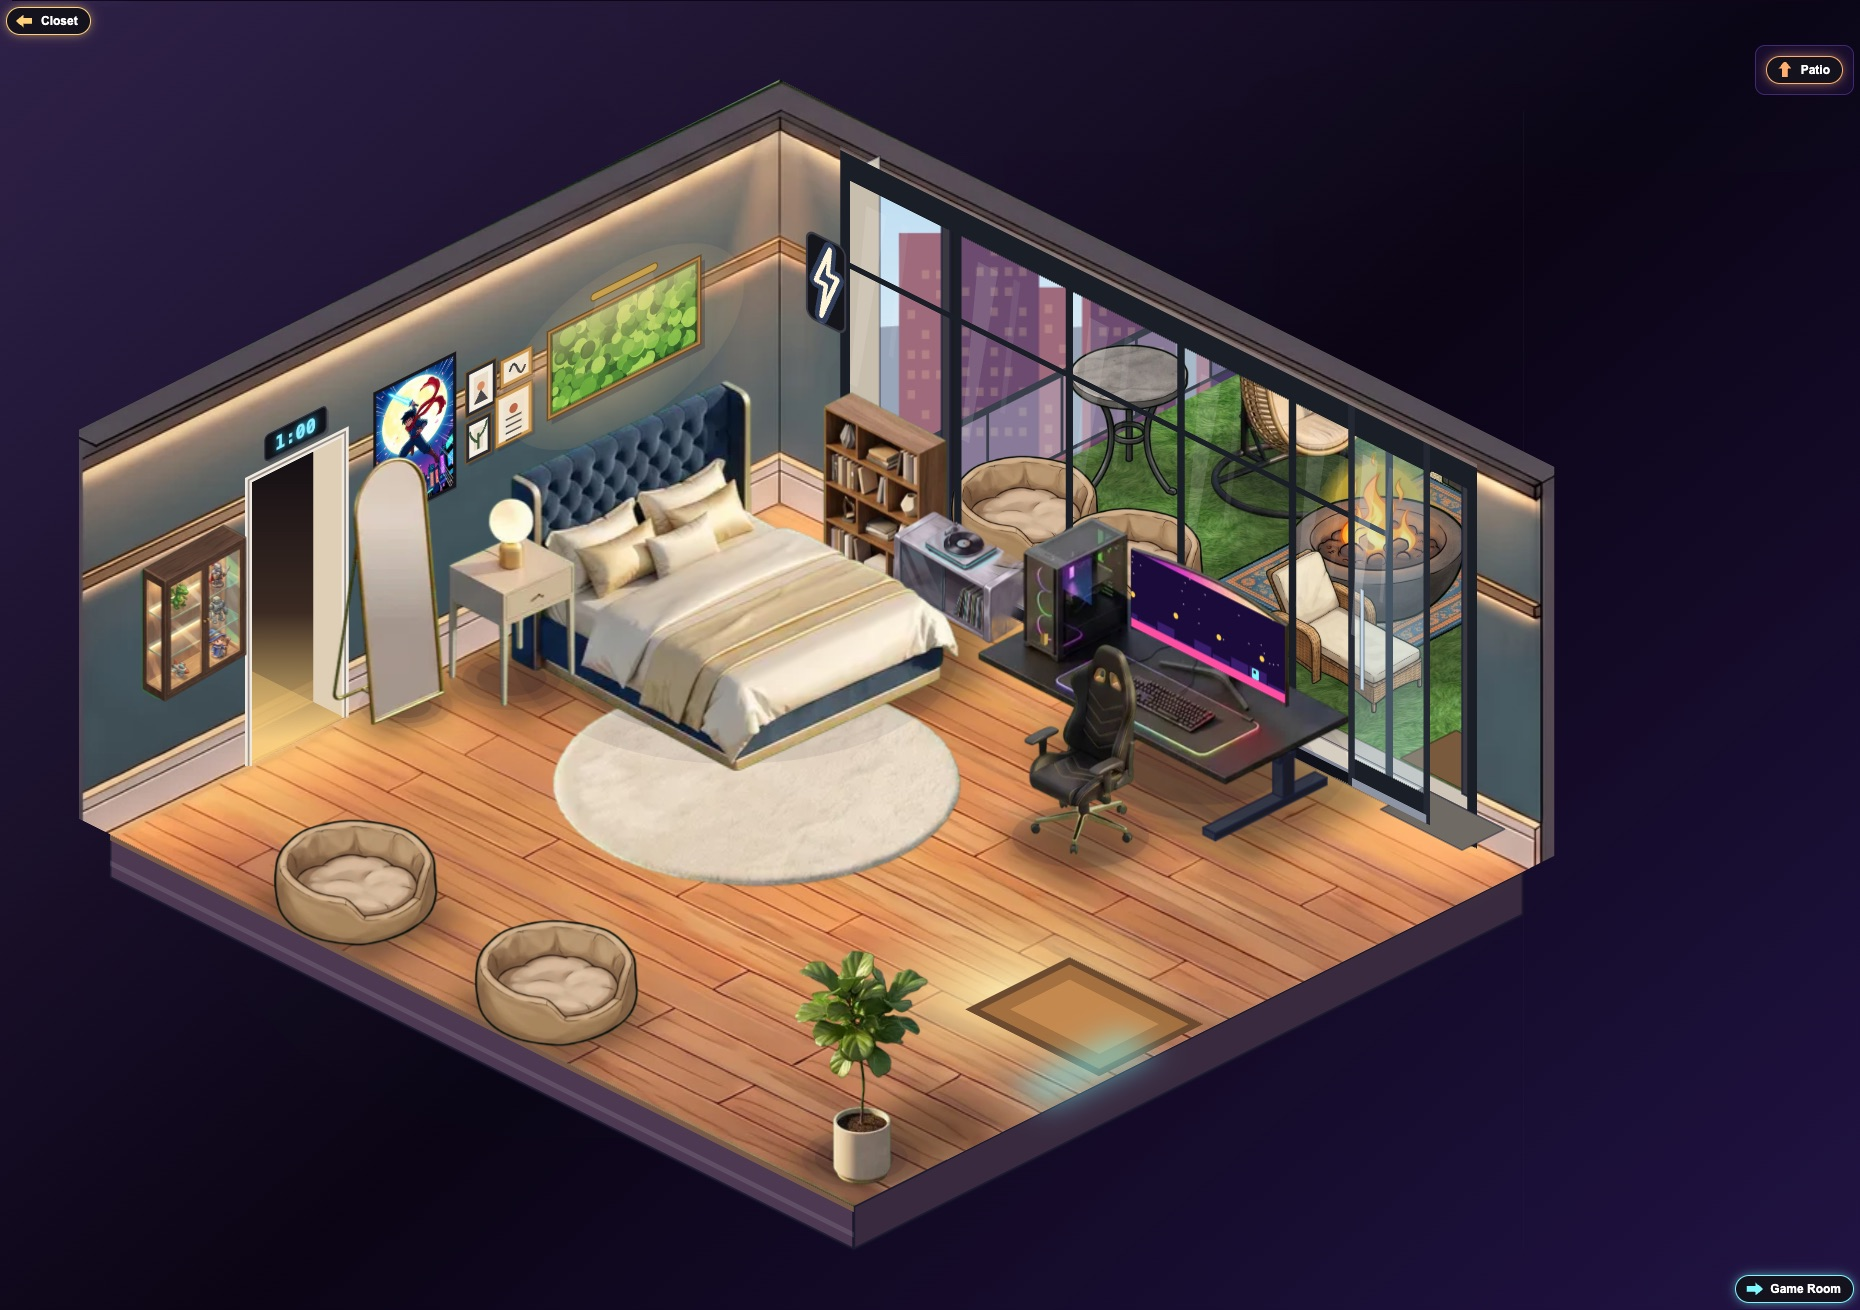
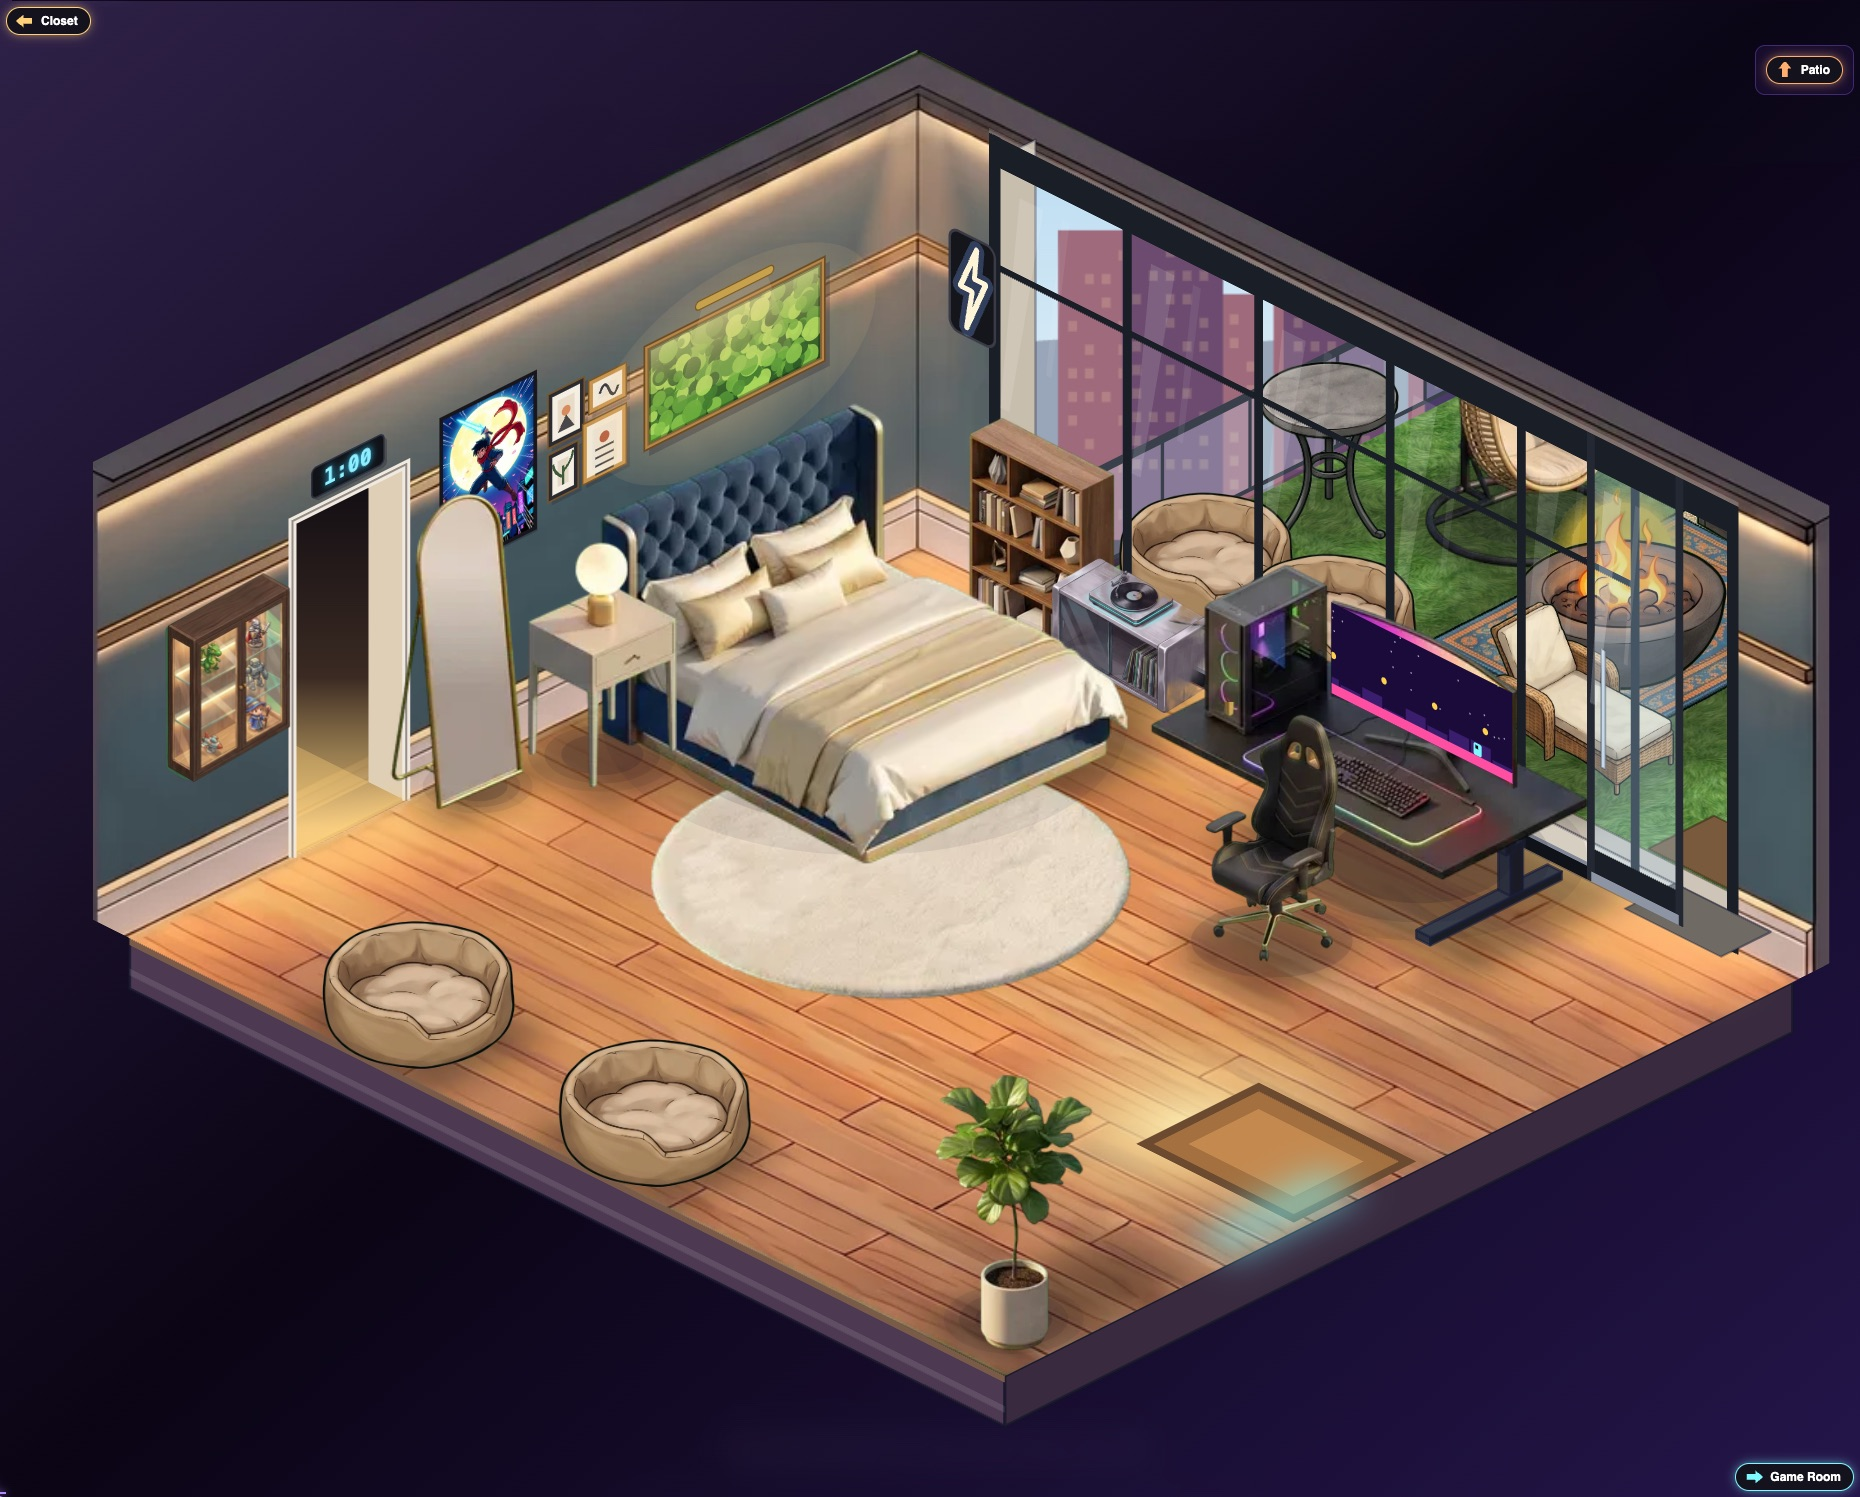
QA: ROOMS 25a23a9 PASS: the Bedroom full size again, the Mall escalator into its stairwell

diff --git a/quest-board/docs/TASKS.md b/quest-board/docs/TASKS.md
@@ -62,7 +62,7 @@ LEAD Doing:
 
 ROOMS Doing:
 - TAKEN by ROOMS: QA's room-placement sweep for Cal (9204eb5, rigtest/qa/review_rooms_1114.md): chandeliers, floating pieces, wrong-wall pieces, off-floor, blocked doors, clipping, realism, crowding, guest spots. Fixing room by room, worst first; each fix goes to QA as WAITING ON QA.
-- (QA: DONE on 96f45cb, PASS except two, QA findings) (QA: DONE on 152e874, both fixed; one new FIX, the Bedroom drawn smaller; QA findings) WAITING ON QA: room sweep fixes so far, by eye at 1860 px fully bought, default style, 13:00 (bigrooms.js) and auditall.js: 16a9ebf (Restaurant chandeliers over tables on cords, two in the full room; Theater lobby chandeliers up on cords, one moved off the kiosk; Patio light strings tied to corner posts), 0809117 (Boba cooker on a steel stand; Closet Lair rod painted out; Rhythm mirror/equalizer flips and bench inside; VR globe flip and flight pod inside; Game Room hex panels drawn on the left wall plane), 96f45cb (Theater standee off the entrance; Patio telescope and bar cart clear). (QA: DONE on 96f45cb, PASS but FIX 1 Theater second chandelier, FIX 2 Patio cust spot.) WAITING ON QA: 152e874 (both FIXes; Bedroom desk off the patio door; Garden back door onto the aisle, scarecrow and pond lantern moved). Not checked: other styles, earlier stages, night. Still to do: Dessert sundae (art edit), Bedroom desk/door, Garden door/bed and lamp/pond, Mall escalator, Rooftop DJ/pool, Speakeasy booth/piano and back bar, Bowling, Karaoke, Auditorium, Lair pieces, crowding, guest spots.
+- (QA: DONE on 96f45cb, PASS except two, QA findings) (QA: DONE on 152e874, both fixed; one new FIX, the Bedroom drawn smaller; QA findings) (QA: DONE on 25a23a9, PASS; QA findings) WAITING ON QA: room sweep fixes so far, by eye at 1860 px fully bought, default style, 13:00 (bigrooms.js) and auditall.js: 16a9ebf (Restaurant chandeliers over tables on cords, two in the full room; Theater lobby chandeliers up on cords, one moved off the kiosk; Patio light strings tied to corner posts), 0809117 (Boba cooker on a steel stand; Closet Lair rod painted out; Rhythm mirror/equalizer flips and bench inside; VR globe flip and flight pod inside; Game Room hex panels drawn on the left wall plane), 96f45cb (Theater standee off the entrance; Patio telescope and bar cart clear). (QA: DONE on 96f45cb, PASS but FIX 1 Theater second chandelier, FIX 2 Patio cust spot.) (QA: DONE on 152e874, PASS but one FIX, the Bedroom drawn 20% smaller.) WAITING ON QA: 25a23a9 (the Bedroom size FIX: Patio front posts left out of the Bedroom's glass view; Mall escalator into its stairwell, clear of the elevator). Not checked: other styles, earlier stages, night. Still to do: Dessert sundae (art edit), Bedroom desk/door, Garden door/bed and lamp/pond, Mall escalator, Rooftop DJ/pool, Speakeasy booth/piano and back bar, Bowling, Karaoke, Auditorium, Lair pieces, crowding, guest spots.
 - (QA: DONE on 9f6c17c, PASS, QA findings) WAITING ON QA: check b416f33, QA's old note (Mara's chef hat covered her eyes): npc_hat is lifted (m 175, f 115) with no hair trim. ROOMS checked Mara in all 34 poses (with LEAD's six animations) and the hat on h1, h2, h3 for both bodies: eyes clear, no scalp gap. Every NPC chef wears it, so a look at the Restaurant's cooks too.
 - (DONE by LEAD in a995106.) READY for LEAD (Cal approved Kenan, e7e6b70): in 29k_friends.js set kenan's spec to body m, skin s2, hairStyle "fr_kenan_hair", hairColor black, top tee white, shoe sneakers black, eq ["fr_kenan_jacket","fr_kenan_pants"] (drop h_shades, h_tech, h_boots: no sunglasses now). fr_kenan_hair is not in hairStyles on purpose, like Victor's.
 - (QA: DONE on 5d726d6, PASS; QA findings) WAITING ON QA: check e7e6b70 with LEAD's wiring a995106 (LEAD wear-tested the spec on the rig in all 22 poses): Kenan's visit card portraits (three) and his look in rooms (wear-tested in 22 poses by ROOMS; the stretch has no yawn picture now and falls back).
@@ -95,9 +95,14 @@ Requests for ROOMS (Cal, 2026-11-13; approvals go to Cal first):
   26_world.js already does. That way Sable, Rafe and Nova no longer look alike: TEAM.look gives all three the same y_bucket hat.
 
 QA Doing:
-- Now (on 152e874): ROOMS's 152e874 checked: Theater and Patio fixes PASS, Bedroom desk and Garden door PASS; one new FIX (the Bedroom drawn smaller since the Patio posts). More ROOMS fixes coming tonight; loop stays on until ROOMS is done (ROOMS asked). v1.02 live as 10daa03.
+- Now (on 25a23a9): ROOMS's room-sweep fixes through 25a23a9 PASS (nothing open from QA). More ROOMS fixes coming tonight; loop stays on until ROOMS is done (ROOMS asked). v1.02 live as 10daa03.
 
 QA findings (Mac team; one line each: what, where, how to see it, pictures, owner):
+- PASS, ROOMS 25a23a9 (clean plain build; bigrooms.js and auditall.js on bedroom, patio, mall): the Bedroom is 1860x1496 again (as on
+  4c6317b), the Patio seen through its glass without the front posts; the Patio itself unchanged (1860x1784). Mall: the escalator's
+  top now runs into the dark opening under the balcony and clears the glass elevator; the potted palm behind its left rail reads as
+  decor behind it, fine. auditall: only the old Mall "stand-touch wander" and the Patio lounger's own seat. `shots/qa/rooms1115/`.
+  Garden grow-lamp bar: ROOMS nudges it in the next batch. Owner: ROOMS.
 - ROOMS 152e874 (clean plain build; bigrooms.js and auditall.js on theater, patio, bedroom, garden; `shots/qa/rooms1115/`). PASS:
   Theater's second chandelier now up on a cord between the recliners, both cords run up near the wall top, framing unchanged
   (1860x1533); Patio, the telescope's guest spot out of the lounger (only the lounger's own seat is left, "stand-in chair:chair",
